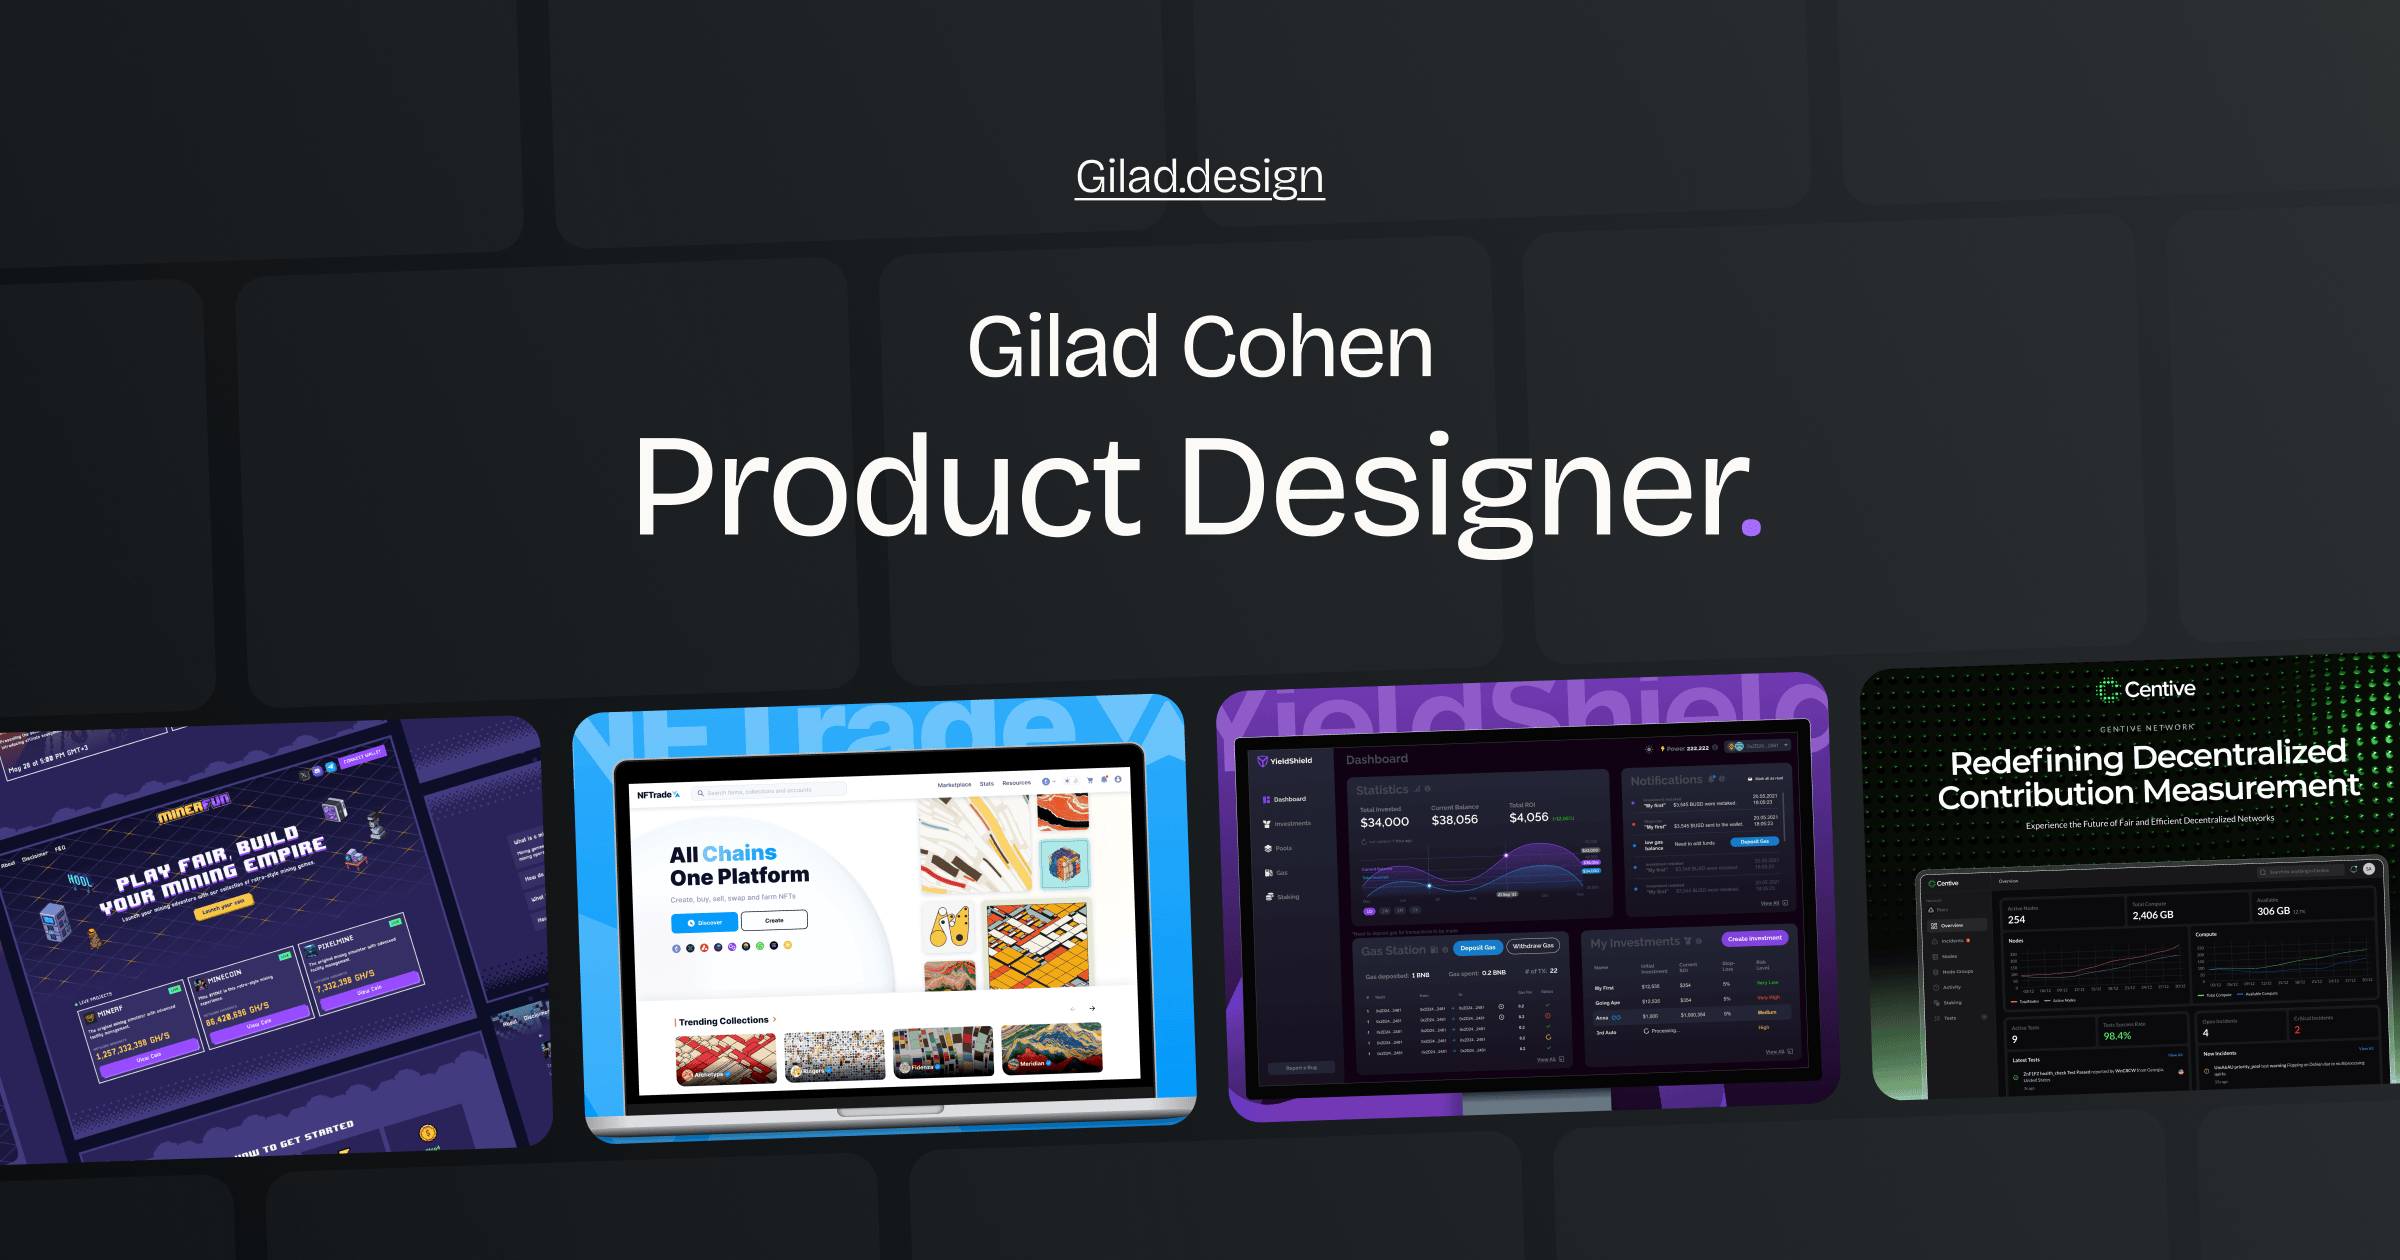
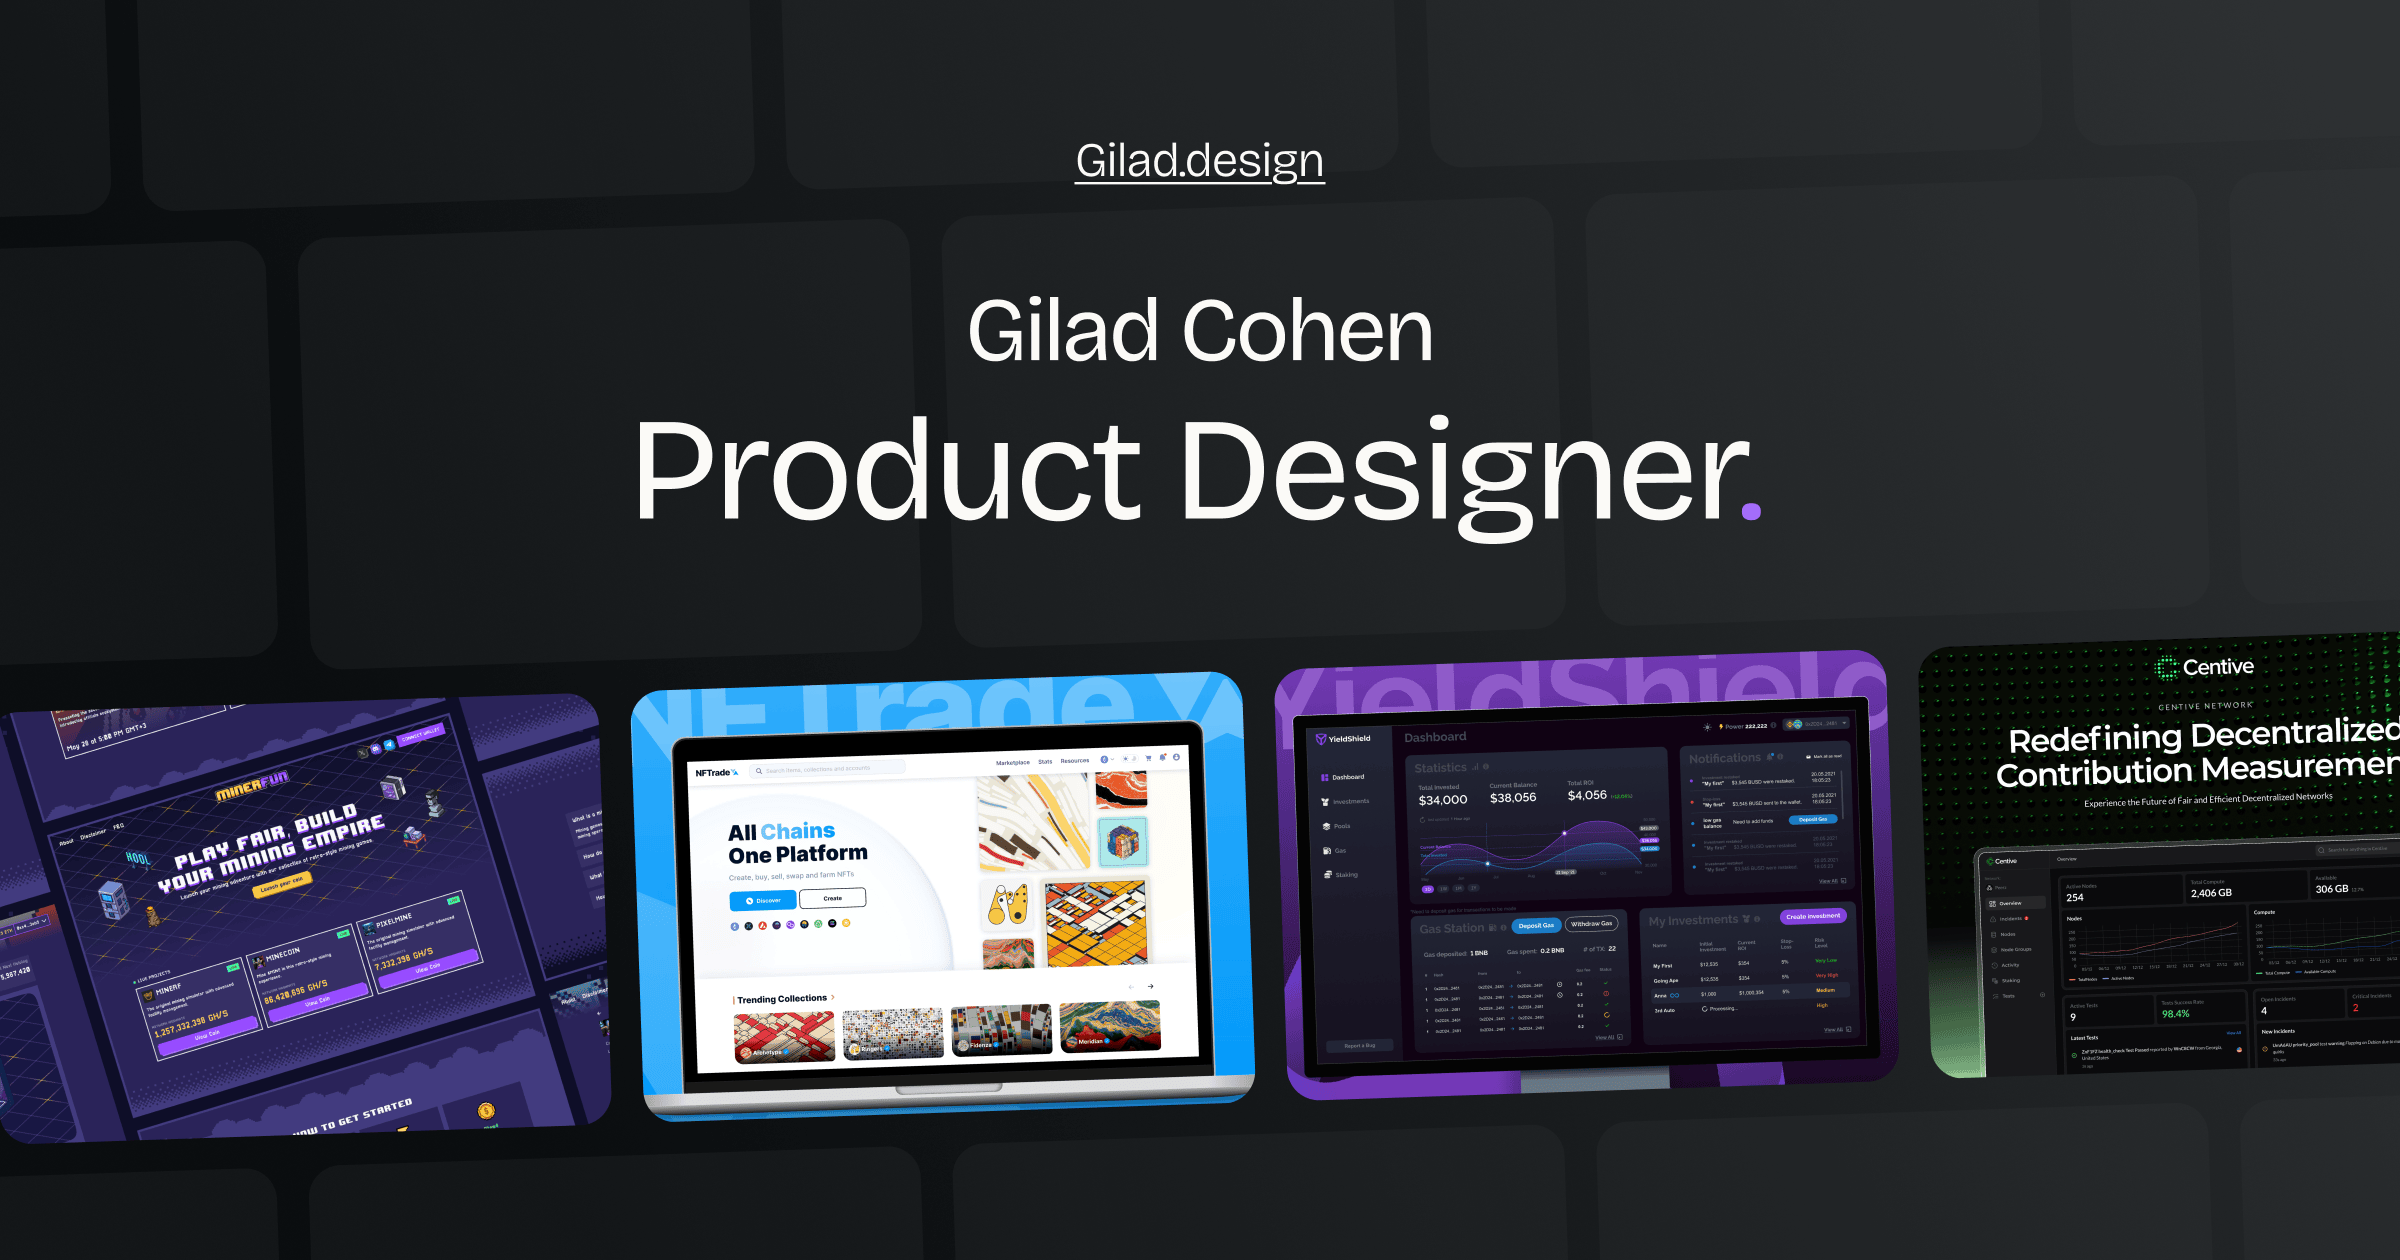
Lighten the site background and refresh the home OG image
Background moves from #FAFAF7 to #FEFEFD across all pages, with the
secondary surface following to #FAF8F4. New home share image, cache
busted to v=6 and compressed from 1.8MB to 845KB.

diff --git a/index.html b/index.html
@@ -12,13 +12,13 @@
 <meta property="og:url" content="https://gilad.design/" />
 <meta property="og:title" content="Gilad Cohen · Product Designer" />
 <meta property="og:description" content="Product designer: 6+ years in product and UI/UX, 12 in design. UI, visual design, design systems, and complex digital products. Zero-to-one work and redesigns." />
-<meta property="og:image" content="https://gilad.design/assets/og/og-home.png?v=5" />
+<meta property="og:image" content="https://gilad.design/assets/og/og-home.png?v=6" />
 <meta property="og:image:width" content="2400" />
 <meta property="og:image:height" content="1260" />
 <meta name="twitter:card" content="summary_large_image" />
 <meta name="twitter:title" content="Gilad Cohen · Product Designer" />
 <meta name="twitter:description" content="Product designer: 6+ years in product and UI/UX, 12 in design. UI, visual design, design systems, and complex digital products. Zero-to-one work and redesigns." />
-<meta name="twitter:image" content="https://gilad.design/assets/og/og-home.png?v=5" />
+<meta name="twitter:image" content="https://gilad.design/assets/og/og-home.png?v=6" />
 <link rel="icon" href="/favicon.svg" type="image/svg+xml" />
 <link rel="apple-touch-icon" href="/apple-touch-icon.png" />
 <script type="application/ld+json">[
@@ -86,8 +86,8 @@
 <link href="https://fonts.googleapis.com/css2?family=Bricolage+Grotesque:opsz,wght@12..96,300;12..96,400;12..96,500;12..96,600;12..96,700&family=DM+Sans:opsz,wght@9..40,300;9..40,400;9..40,500;9..40,600&family=JetBrains+Mono:wght@400;500&display=swap" rel="stylesheet">
 <style>
   :root{
-    --bg:#fafaf7;        /* crisp near-white, warm */
-    --bg-2:#f0eee7;      /* deeper paper */
+    --bg:#fefefd;        /* crisp near-white, warm */
+    --bg-2:#faf8f4;      /* deeper paper */
     --ink:#0a0a0b;       /* near-black */
     --ink-2:#1a1a1c;
     --line:#0a0a0b14;

diff --git a/YieldShield.html b/YieldShield.html
@@ -27,7 +27,7 @@
 <link href="https://fonts.googleapis.com/css2?family=Bricolage+Grotesque:opsz,wght@12..96,300;12..96,400;12..96,500;12..96,600&family=DM+Sans:opsz,wght@9..40,300;9..40,400;9..40,500;9..40,600&family=Raleway:wght@300;400;500;600;700&family=JetBrains+Mono:wght@400;500&display=swap" rel="stylesheet">
 <style>
   :root{
-    --bg:#fafaf7;--bg-2:#f0eee7;
+    --bg:#fefefd;--bg-2:#faf8f4;
     --ink:#0a0a0b;--line:#0a0a0b14;--line-strong:#0a0a0b24;
     --fg:#0a0a0b;--fg-dim:#7a7770;--fg-mid:#3a3a3c;
     --accent:#5b3df5;--warm:#d24a1a;--good:#2d8e4a;

diff --git a/NFTrade.html b/NFTrade.html
@@ -27,7 +27,7 @@
 <link href="https://fonts.googleapis.com/css2?family=Bricolage+Grotesque:opsz,wght@12..96,300;12..96,400;12..96,500;12..96,600&family=DM+Sans:opsz,wght@9..40,300;9..40,400;9..40,500;9..40,600&family=Inter:wght@300;400;500;600;700&family=JetBrains+Mono:wght@400;500&display=swap" rel="stylesheet">
 <style>
   :root{
-    --bg:#fafaf7;--bg-2:#f0eee7;
+    --bg:#fefefd;--bg-2:#faf8f4;
     --ink:#0a0a0b;--line:#0a0a0b14;--line-strong:#0a0a0b24;
     --fg:#0a0a0b;--fg-dim:#7a7770;--fg-mid:#3a3a3c;
     --accent:#5b3df5;--warm:#d24a1a;--good:#2d8e4a;

diff --git a/AntSeed.html b/AntSeed.html
@@ -27,7 +27,7 @@
 <link href="https://fonts.googleapis.com/css2?family=Bricolage+Grotesque:opsz,wght@12..96,300;12..96,400;12..96,500;12..96,600&family=DM+Sans:opsz,wght@9..40,300;9..40,400;9..40,500;9..40,600&family=Geist:wght@400;500;600&family=JetBrains+Mono:wght@400;500&display=swap" rel="stylesheet">
 <style>
   :root{
-    --bg:#fafaf7;--bg-2:#f0eee7;
+    --bg:#fefefd;--bg-2:#faf8f4;
     --ink:#0a0a0b;--line:#0a0a0b14;--line-strong:#0a0a0b24;
     --fg:#0a0a0b;--fg-dim:#7a7770;--fg-mid:#3a3a3c;
     --accent:#5b3df5;--warm:#d24a1a;--good:#2d8e4a;

diff --git a/Centive.html b/Centive.html
@@ -27,7 +27,7 @@
 <link href="https://fonts.googleapis.com/css2?family=Bricolage+Grotesque:opsz,wght@12..96,300;12..96,400;12..96,500;12..96,600&family=DM+Sans:opsz,wght@9..40,300;9..40,400;9..40,500;9..40,600&family=JetBrains+Mono:wght@400;500&display=swap" rel="stylesheet">
 <style>
   :root{
-    --bg:#fafaf7;--bg-2:#f0eee7;
+    --bg:#fefefd;--bg-2:#faf8f4;
     --ink:#0a0a0b;--line:#0a0a0b14;--line-strong:#0a0a0b24;
     --fg:#0a0a0b;--fg-dim:#7a7770;--fg-mid:#3a3a3c;
     --accent:#5b3df5;--warm:#d24a1a;--good:#2d8e4a;

diff --git a/MinerFun.html b/MinerFun.html
@@ -27,7 +27,7 @@
 <link href="https://fonts.googleapis.com/css2?family=Bricolage+Grotesque:opsz,wght@12..96,300;12..96,400;12..96,500;12..96,600&family=DM+Sans:opsz,wght@9..40,300;9..40,400;9..40,500;9..40,600&family=JetBrains+Mono:wght@400;500&display=swap" rel="stylesheet">
 <style>
   :root{
-    --bg:#fafaf7;--bg-2:#f0eee7;
+    --bg:#fefefd;--bg-2:#faf8f4;
     --ink:#0a0a0b;--line:#0a0a0b14;--line-strong:#0a0a0b24;
     --fg:#0a0a0b;--fg-dim:#7a7770;--fg-mid:#3a3a3c;
     --accent:#5b3df5;--warm:#d24a1a;--good:#2d8e4a;
